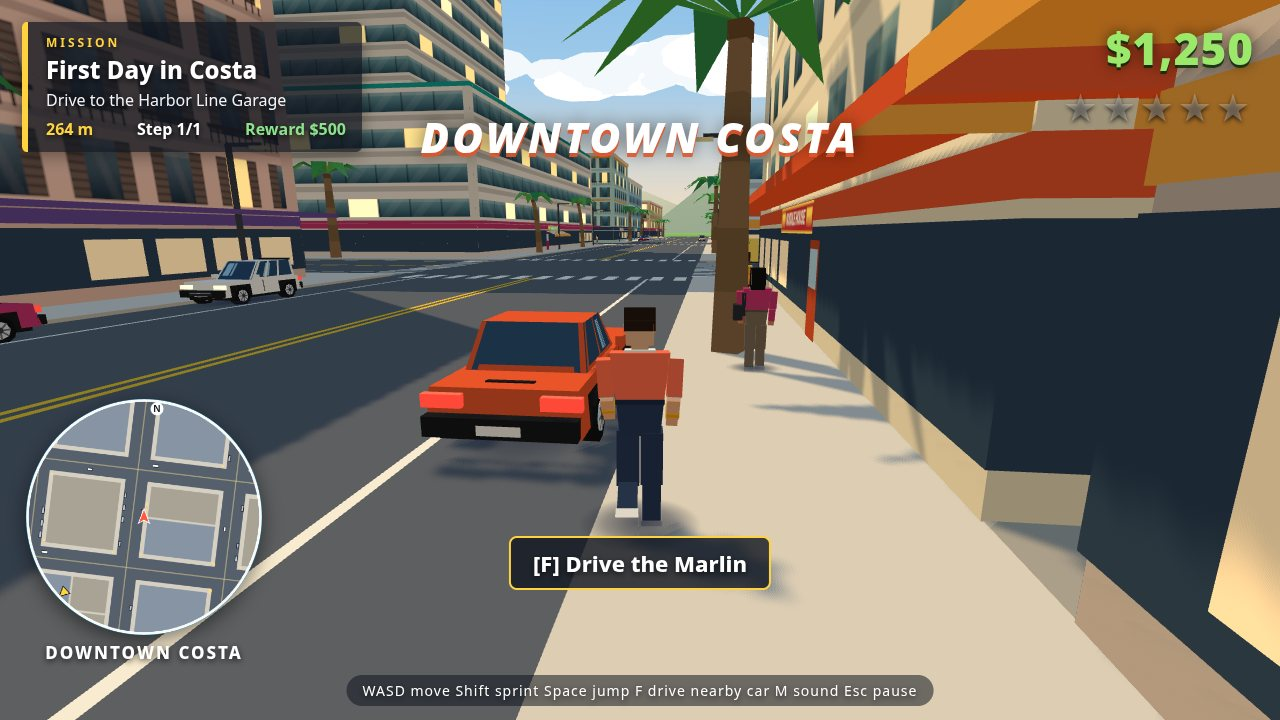
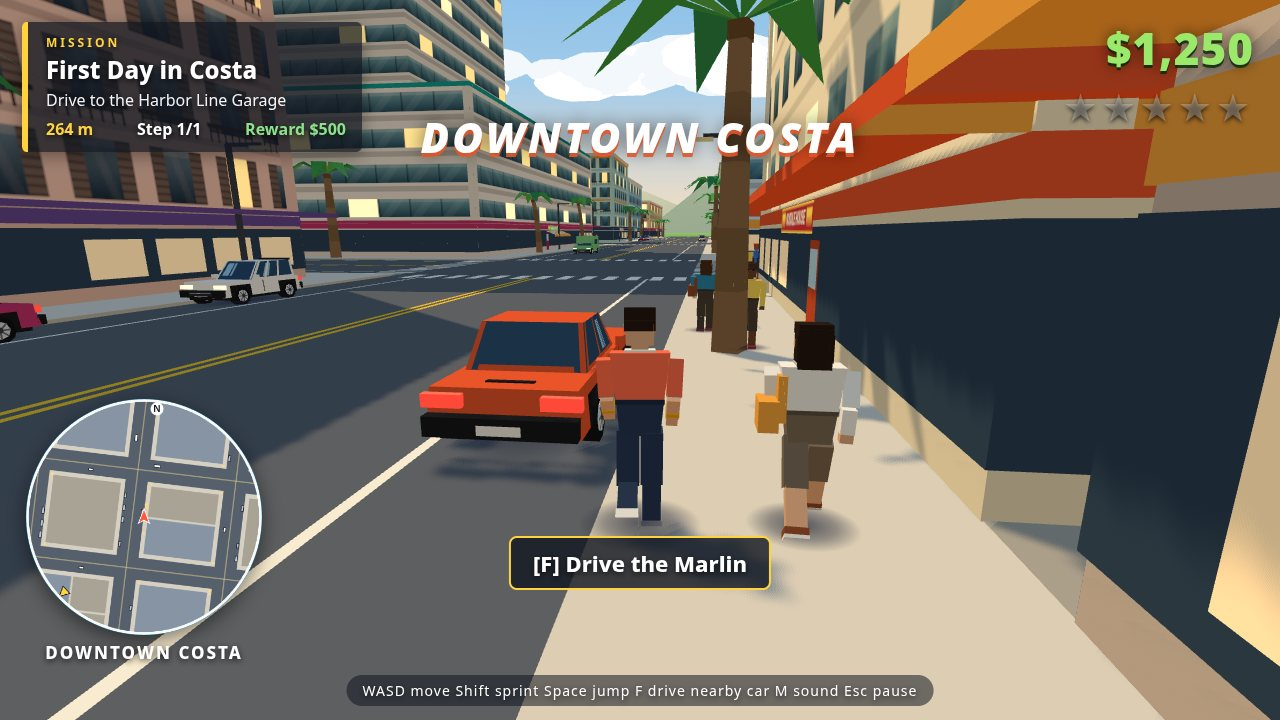
Denser town: pedestrian variety and walking pairs, driver temperaments, checkpoint race and patrol missions, new screenshots

Changed region(s): [[0.5312, 0.3361, 0.6875, 0.7639], [0.4375, 0.3056, 0.4688, 0.3667]]

diff --git a/game/src/missions.js b/game/src/missions.js
@@ -61,13 +61,74 @@ function scripted(index, world) {
           { kind: 'reach', x: -240, z: -200, r: 8, needs: 'any', requireClean: true, text: 'Shake the police, then reach the safehouse' },
         ],
       };
+    case 6:
+      return raceMission('Costa Circuit', 1800, [[-240, -200], [-80, -200], [80, -200], [240, -200], [240, 40], [80, 40], [-80, 40], [-240, 40]], world, 'Street race');
+    case 7:
+      return patrolMission('Seaside Patrol', 1400, [[-160, 200], [0, 200], [160, 200], [240, 280], [-80, 280]], world);
     default:
       return null;
   }
 }
 
-// Endless courier jobs: deterministic per index so a reload gives the same order.
+const RACE_PINK = 0xff5fa2;
+const PATROL_GREEN = 0x62e08a;
+
+// Checkpoint race: drive through every gate in order. One clock runs the whole race; each gate adds time back.
+function raceMission(title, reward, spots, world, label) {
+  const steps = spots.map((s, i) => {
+    const leg = i === 0 ? 0 : dist(spots[i - 1], s);
+    const first = i === 0;
+    return {
+      kind: 'reach', x: s[0], z: s[1], r: 9, needs: 'car', color: RACE_PINK,
+      time: first ? Math.round(40 + dist([world.player?.px ?? 0, world.player?.pz ?? 0], s) / 8) : undefined, bonus: first ? 0 : Math.round(7 + leg / 9),
+      text: `${label}: gate ${i + 1}/${spots.length} in ${world.layout.districtAt(s[0], s[1])}`,
+    };
+  });
+  return { title, reward, steps, race: true };
+}
+
+// Timed patrol: check in at every post on foot or by car before the shift clock runs out.
+function patrolMission(title, reward, spots, world) {
+  let total = 0;
+  for (let i = 1; i < spots.length; i++) total += dist(spots[i - 1], spots[i]);
+  const steps = spots.map((s, i) => ({
+    kind: 'reach', x: s[0], z: s[1], r: 7, needs: 'any', color: PATROL_GREEN,
+    text: `Patrol post ${i + 1}/${spots.length}: ${world.layout.districtAt(s[0], s[1])}`,
+  }));
+  steps[0].time = Math.round(40 + total / 7);
+  return { title, reward, steps };
+}
+
+// Order spots into a loop by always visiting the nearest unvisited one.
+function loopFrom(rng, n, minLeg) {
+  const pool = COURIER_SPOTS.slice();
+  const out = [pool.splice(rng.int(0, pool.length - 1), 1)[0]];
+  while (out.length < n) {
+    const last = out[out.length - 1];
+    pool.sort((a, b) => dist(a, last) - dist(b, last));
+    const k = pool.findIndex((p) => dist(p, last) >= minLeg);
+    out.push(pool.splice(k < 0 ? 0 : k, 1)[0]);
+  }
+  return out;
+}
+
+// Endless jobs after the scripted chain, in a repeating cycle: courier, checkpoint race, patrol.
 function generated(index, world) {
+  const n = index - 8;
+  const kind = n % 3;
+  if (kind === 1) {
+    const rng = makeRng(index * 331 + 17);
+    return raceMission(`Circuit Race #${Math.floor(n / 3) + 1}`, 1500 + Math.floor(n / 3) * 100, loopFrom(rng, 6, 100), world, 'Street race');
+  }
+  if (kind === 2) {
+    const rng = makeRng(index * 463 + 9);
+    return patrolMission(`Harbor Patrol #${Math.floor(n / 3) + 1}`, 1200 + Math.floor(n / 3) * 100, loopFrom(rng, 4, 80), world);
+  }
+  return courier(index, n, world);
+}
+
+// Courier jobs: deterministic per index so a reload gives the same order.
+function courier(index, n, world) {
   const rng = makeRng(index * 977 + 5);
   const a = COURIER_SPOTS[rng.int(0, COURIER_SPOTS.length - 1)];
   let b = a;
@@ -75,8 +136,8 @@ function generated(index, world) {
   const d = dist(a, b);
   const area = (p) => world.layout.districtAt(p[0], p[1]);
   return {
-    title: `Courier Job #${index - 5}`,
-    reward: Math.round((350 + d * 1.7 + (index - 6) * 40) / 10) * 10,
+    title: `Courier Job #${Math.floor(n / 3) + 1}`,
+    reward: Math.round((350 + d * 1.7 + Math.floor(n / 3) * 40) / 10) * 10,
     steps: [
       { kind: 'reach', x: a[0], z: a[1], r: 5.5, needs: 'any', text: `Pick up the package in ${area(a)}` },
       { kind: 'reach', x: b[0], z: b[1], r: 6, needs: 'car', time: Math.round(30 + d / 7.5), text: `Deliver it to ${area(b)}` },
@@ -130,6 +191,7 @@ export class MissionTracker {
   _enterStep() {
     const s = this.step;
     if (s.time) this.timeLeft = s.time;
+    else if (s.bonus && this.timeLeft !== null) this.timeLeft += s.bonus;
     const c = s.color ?? GOLD;
     this.beamMat.color.setHex(c);
     this.ringMat.color.setHex(c);

diff --git a/game/src/pedestrians.js b/game/src/pedestrians.js
@@ -1,6 +1,6 @@
 // pedestrians: townsfolk walking the sidewalk loops, waiting for gaps in traffic, fleeing oncoming cars and getting knocked down.
 // People hop between sidewalk corners (4 per intersection); the population is recycled around the player to keep the count low.
-import { buildPedestrian } from './characters.js';
+import { buildPedestrian, PED_VARIANTS } from './characters.js';
 
 const OFF = 10.8; // sidewalk centre line distance from a road centre line
 const WALK = 1.45;
@@ -13,14 +13,47 @@ export class Pedestrians {
     this.rng = rng;
     this.groundHeightAt = groundHeightAt;
     this.list = [];
+    // Personalities by slot: joggers, loiterers, brisk commuters and walking pairs (leader n%7==3, companion n%7==4).
     for (let n = 0; n < count; n++) {
-      const model = buildPedestrian(Math.floor(rng() * 24));
+      const model = buildPedestrian((n * 7 + 3) % PED_VARIANTS);
       model.group.visible = false;
       scene.add(model.group);
-      this.list.push({
-        model, x: 0, z: 0, y: 0, heading: 0, state: 'walk', timer: 0, speed: WALK * rng.range(0.85, 1.2),
-        from: null, to: null, crossing: false, vx: 0, vz: 0, down: 0, active: false, fleeDx: 0, fleeDz: 0,
-      });
+      const slot = n % 7;
+      const speed = slot === 0 ? rng.range(2.7, 3.3) : slot === 2 ? WALK * rng.range(0.55, 0.7) : slot === 5 ? WALK * rng.range(1.25, 1.4) : WALK * rng.range(0.85, 1.2);
+      const p = {
+        model, x: 0, z: 0, y: 0, heading: 0, state: 'walk', timer: 0, speed,
+        from: null, to: null, crossing: false, vx: 0, vz: 0, down: 0, active: false, fleeDx: 0, fleeDz: 0, leader: null,
+      };
+      if (slot === 4 && n > 0) {
+        p.leader = this.list[n - 1];
+        p.speed = p.leader.speed;
+      }
+      this.list.push(p);
+    }
+  }
+
+  // A companion keeps pace beside its leader (one step behind, to the right) and copies the leader's crossing state.
+  _followLeader(p, dt) {
+    const l = p.leader, m = p.model;
+    const fx = Math.sin(l.heading), fz = Math.cos(l.heading);
+    const tx = l.x + fz * 0.95 - fx * 0.5, tz = l.z - fx * 0.95 - fz * 0.5;
+    let dx = tx - p.x, dz = tz - p.z;
+    const d = Math.hypot(dx, dz);
+    if (d > 25) {
+      p.x = tx;
+      p.z = tz;
+      return;
+    }
+    p.crossing = l.crossing;
+    const moving = l.state === 'walk' && d > 0.12;
+    if (moving) {
+      const step = Math.min(d, (l.speed + d * 1.6) * dt);
+      p.x += (dx / d) * step;
+      p.z += (dz / d) * step;
+      p.heading += wrap(l.heading - p.heading) * Math.min(1, 8 * dt);
+      m.animate(dt, Math.min(l.speed + d, 3.2));
+    } else {
+      m.animate(dt, 0);
     }
   }
 
@@ -95,6 +128,7 @@ export class Pedestrians {
 
   populate(focus) {
     for (const p of this.list) this.place(p, focus, 20, 150);
+    for (const p of this.list) if (p.leader) this._followLeader(p, 0);
   }
 
   _pickNext(p, prev) {
@@ -222,6 +256,8 @@ export class Pedestrians {
           if (!this._trafficNear((a.x + b.x) / 2, (a.z + b.z) / 2, vehicles, 30)) p.state = 'walk';
           else p.timer = 0.5;
         }
+      } else if (p.leader && p.leader.active && p.leader.state !== 'down') {
+        this._followLeader(p, dt);
       } else {
         const t = this.cornerPos(p.to);
         const dx = t.x - p.x, dz = t.z - p.z;

diff --git a/game/src/shots.js b/game/src/shots.js
@@ -38,7 +38,22 @@ export function prepareShot(name, { world, hud, ui }) {
     world.placeInCar(car);
     world.cash = 3850;
     world.rig.yaw = 0;
-    setMission(world, 3, 1);
+    // a street race in progress: gate 2 of the Costa Circuit straight ahead, clock running, sidewalks busy
+    setMission(world, 6, 1);
+    const gate = world.missions.mission.steps[1];
+    gate.x = 0;
+    gate.z = 20;
+    world.missions.timeLeft = 47;
+    const P = world.peds, ped = P.list;
+    const W1 = { i: 4, j: 1, sx: -1, sz: 1 }, W2 = { i: 4, j: 2, sx: -1, sz: -1 };
+    const E1 = { i: 4, j: 1, sx: 1, sz: 1 }, E2 = { i: 4, j: 2, sx: 1, sz: -1 };
+    const E3 = { i: 4, j: 2, sx: 1, sz: 1 }, E4 = { i: 4, j: 3, sx: 1, sz: -1 };
+    P.placeBetween(ped[3], W1, W2, 0.7); // walking pair (ped[4] follows)
+    P.placeBetween(ped[0], E2, E1, 0.45); // jogger
+    P.placeBetween(ped[1], E1, E2, 0.8);
+    P.placeBetween(ped[5], W2, W1, 0.35);
+    P.placeBetween(ped[2], E3, E4, 0.5);
+    P.placeBetween(ped[6], E3, E4, 0.75);
     run(world, 140, KEYS('KeyW'), hud);
     return;
   }
@@ -95,7 +110,7 @@ export function prepareShot(name, { world, hud, ui }) {
     world.rig.yaw = Math.PI + 0.3;
     world.rig.pitch = 0.12;
     const A = { i: 4, j: 3, sx: 1, sz: 1 }, B = { i: 4, j: 4, sx: 1, sz: -1 };
-    for (let k = 0; k < 6; k++) world.peds.placeBetween(world.peds.list[k], k % 2 ? A : B, k % 2 ? B : A, 0.3 + k * 0.08);
+    for (const k of [0, 1, 2, 3, 5, 6]) world.peds.placeBetween(world.peds.list[k], k % 2 ? A : B, k % 2 ? B : A, 0.3 + k * 0.08);
     run(world, 30, KEYS('KeyW', 'ShiftLeft'), hud);
     world.rig.snap(p, world.collision);
     run(world, 2, KEYS('KeyW', 'ShiftLeft'), hud);
@@ -109,11 +124,13 @@ export function prepareShot(name, { world, hud, ui }) {
     p.heading = Math.PI;
     world.rig.yaw = Math.PI + 0.12;
     world.rig.pitch = 0.22;
-    const A = { i: 4, j: 3, sx: 1, sz: 1 }, B = { i: 4, j: 4, sx: 1, sz: -1 };
+    const A = { i: 4, j: 3, sx: 1, sz: 1 }, B = { i: 4, j: 4, sx: 1, sz: -1 }; // the sidewalk ahead of the player (camera looks south)
     const ped = world.peds.list;
-    world.peds.placeBetween(ped[0], A, B, 0.25);
-    world.peds.placeBetween(ped[1], B, A, 0.62);
-    world.peds.placeBetween(ped[2], B, A, 0.7);
+    world.peds.placeBetween(ped[0], B, A, 0.5); // jogger coming toward us
+    world.peds.placeBetween(ped[1], B, A, 0.88);
+    world.peds.placeBetween(ped[2], B, A, 0.3);
+    world.peds.placeBetween(ped[3], B, A, 0.7); // walking pair (ped[4] follows)
+    world.peds.placeBetween(ped[5], A, B, 0.3);
     run(world, 44, KEYS('KeyW'), hud);
     world.rig.snap(p, world.collision);
     run(world, 2, KEYS('KeyW'), hud);

diff --git a/game/src/traffic.js b/game/src/traffic.js
@@ -28,6 +28,18 @@ export class Traffic {
     return 'marlin';
   }
 
+  // Driver temperament: vans and pickups dawdle, the coupe runs hot, and about one in six sedans/hatches are in a hurry.
+  _pickCruise(type) {
+    const r = this.rng;
+    if (type === 'harborVan') return r.range(8, 11);
+    if (type === 'dune') return r.range(9, 13);
+    if (type === 'vesper') return r.range(13.5, 17.5);
+    const k = r();
+    if (k < 0.18) return r.range(7.5, 9.5); // cautious
+    if (k > 0.84) return r.range(15, 18); // in a hurry
+    return r.range(10, 14.5);
+  }
+
   // Find a free lane spot between minD and maxD metres from the focus.
   findSpot(focus, minD, maxD) {
     for (let t = 0; t < 40; t++) {
@@ -49,7 +61,7 @@ export class Traffic {
 
   spawnAt(i, j, d, x, z, type = this._pickType()) {
     const v = this.vm.spawn(type, this.rng.pick(PAINTS), x, z, DIRS[d].h, 'traffic');
-    const drv = new RoadDriver(v, this.net, this.rng, { cruise: this.rng.range(9.5, 14.5) });
+    const drv = new RoadDriver(v, this.net, this.rng, { cruise: this._pickCruise(type) });
     const along = (x - this.net.xs[i]) * DIRS[d].x + (z - this.net.zs[j]) * DIRS[d].z;
     drv.place(i, j, d, along);
     this.cars.push({ v, drv });

diff --git a/game/src/world.js b/game/src/world.js
@@ -21,8 +21,8 @@ import { START_CASH } from './config.js';
 
 const TYPE_WEIGHTS = [['marlin', 0.3], ['pico', 0.2], ['vesper', 0.12], ['dune', 0.2], ['harborVan', 0.18]];
 const ENTER_RANGE = 2.6;
-const TRAFFIC_COUNT = 16;
-const PED_COUNT = 28;
+const TRAFFIC_COUNT = 20;
+const PED_COUNT = 35;
 const FX_TIME = 2.8; // length of the WASTED / BUSTED screen
 const NO_INPUT = { down: () => false, pressed: () => false };
 

diff --git a/game/src/characters.js b/game/src/characters.js
@@ -254,7 +254,8 @@ export function buildPerson(look = PLAYER_LOOK) {
 }
 
 // A townsperson; variant picks the clothes/build, geometry is shared per variant.
+export const PED_VARIANTS = 40;
 export function buildPedestrian(variant = 0) {
-  const k = variant % 24;
+  const k = variant % PED_VARIANTS;
   return buildRig(lookFor(k), `ped${k}`, { headSeparate: false, castShadow: false });
 }
